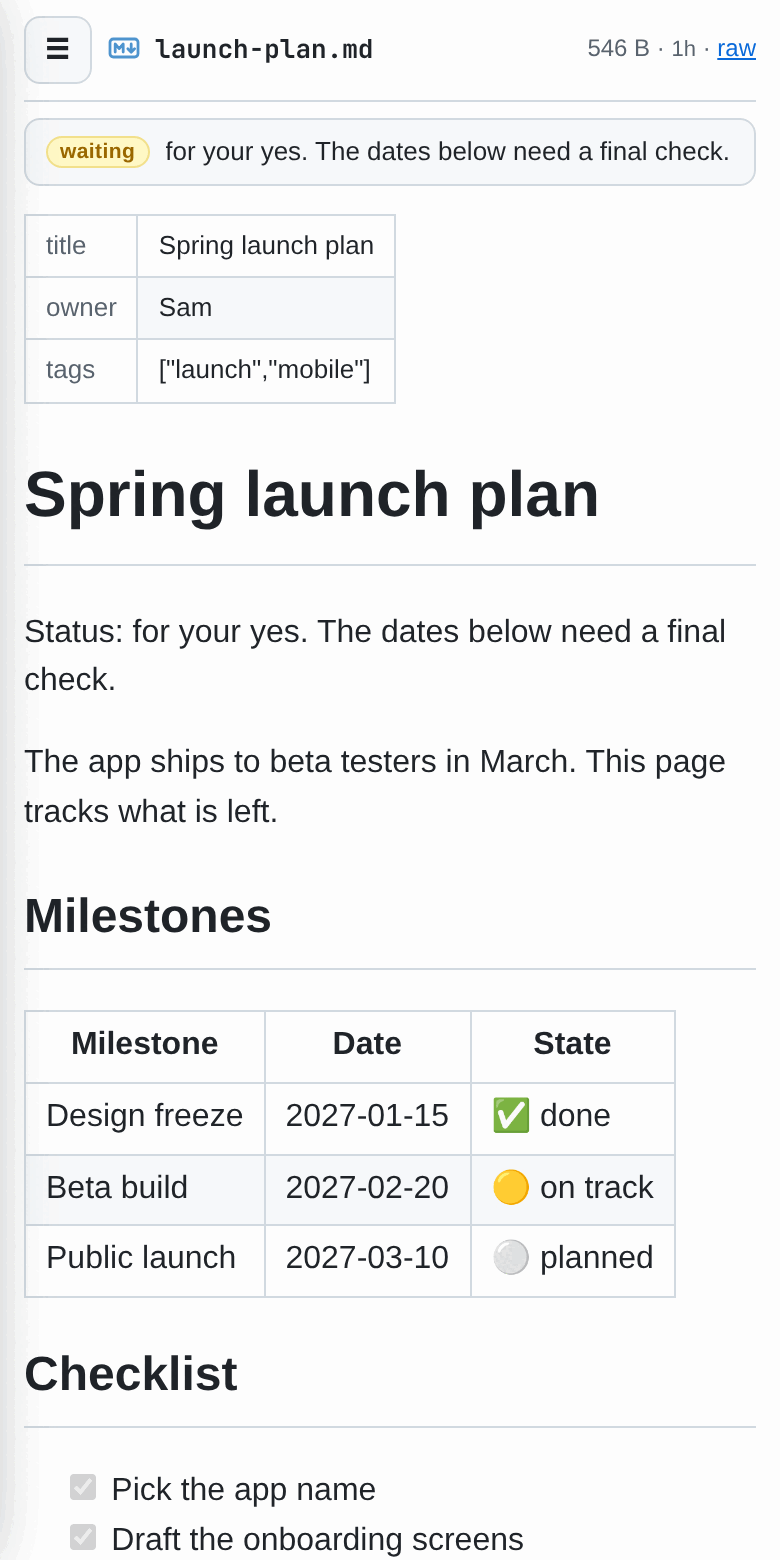
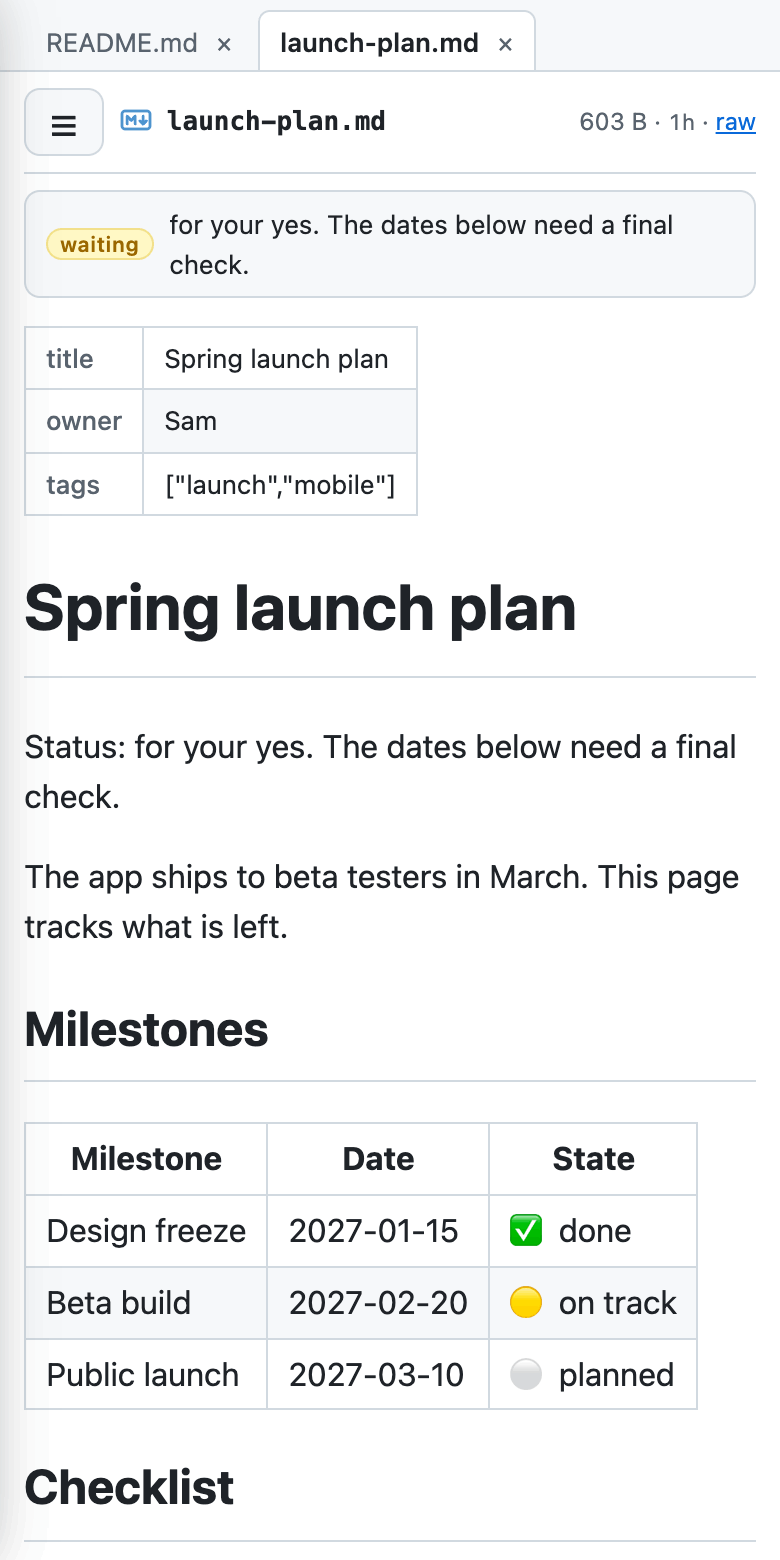
README: chụp lại ảnh web (trang chủ có thẻ Quyết định, tab, menu có Quyết định và Gần đây, laptop) và thêm ảnh tab Quyết định trên laptop; dữ liệu demo

diff --git a/README.md b/README.md
@@ -5,13 +5,15 @@ Read files from chosen folders (repos) in a browser, mainly on the phone, while 
 Built with [Bun](https://bun.sh). One server file, no build step, no client framework.
 
 <p>
-  <img src="docs/screenshots/phone-home.png" width="200" alt="Home: one card per folder with its newest files, file-type icons and status labels">
-  <img src="docs/screenshots/phone-markdown.png" width="200" alt="A Markdown file with its status bar, front matter and a table">
-  <img src="docs/screenshots/phone-menu.png" width="200" alt="The file menu slides in: folders and files with icons and status labels (sent, waiting, draft)">
+  <img src="docs/screenshots/phone-home.png" width="200" alt="Home: open and urgent decisions per folder, then one card per folder with its newest files, file-type icons and status labels">
+  <img src="docs/screenshots/phone-markdown.png" width="200" alt="Two tabs open; a Markdown file with its status bar, front matter and a table">
+  <img src="docs/screenshots/phone-menu.png" width="200" alt="The file menu slides in: Decisions with its counts, Recent files of every folder, then the folders, with icons and status labels (sent, waiting, draft)">
   <img src="docs/screenshots/phone-dark-code.png" width="200" alt="Highlighted code in dark mode">
 </p>
 
-<img src="docs/screenshots/desktop.png" alt="On a laptop the file list sits on the left. An email draft shows its status, read from the README.md next to it">
+<img src="docs/screenshots/desktop.png" alt="On a laptop the file list sits on the left, tabs on top. An email draft shows its status, read from the README.md next to it; its own inline script ran in the sandbox">
+
+<img src="docs/screenshots/desktop-decisions.png" alt="The Decisions tab: open decisions of every folder, oldest first, an urgent one with its deadline, links between decisions, answer options, and the outline on the right">
 
 <sub>Screenshots use made-up demo folders.</sub>
 
